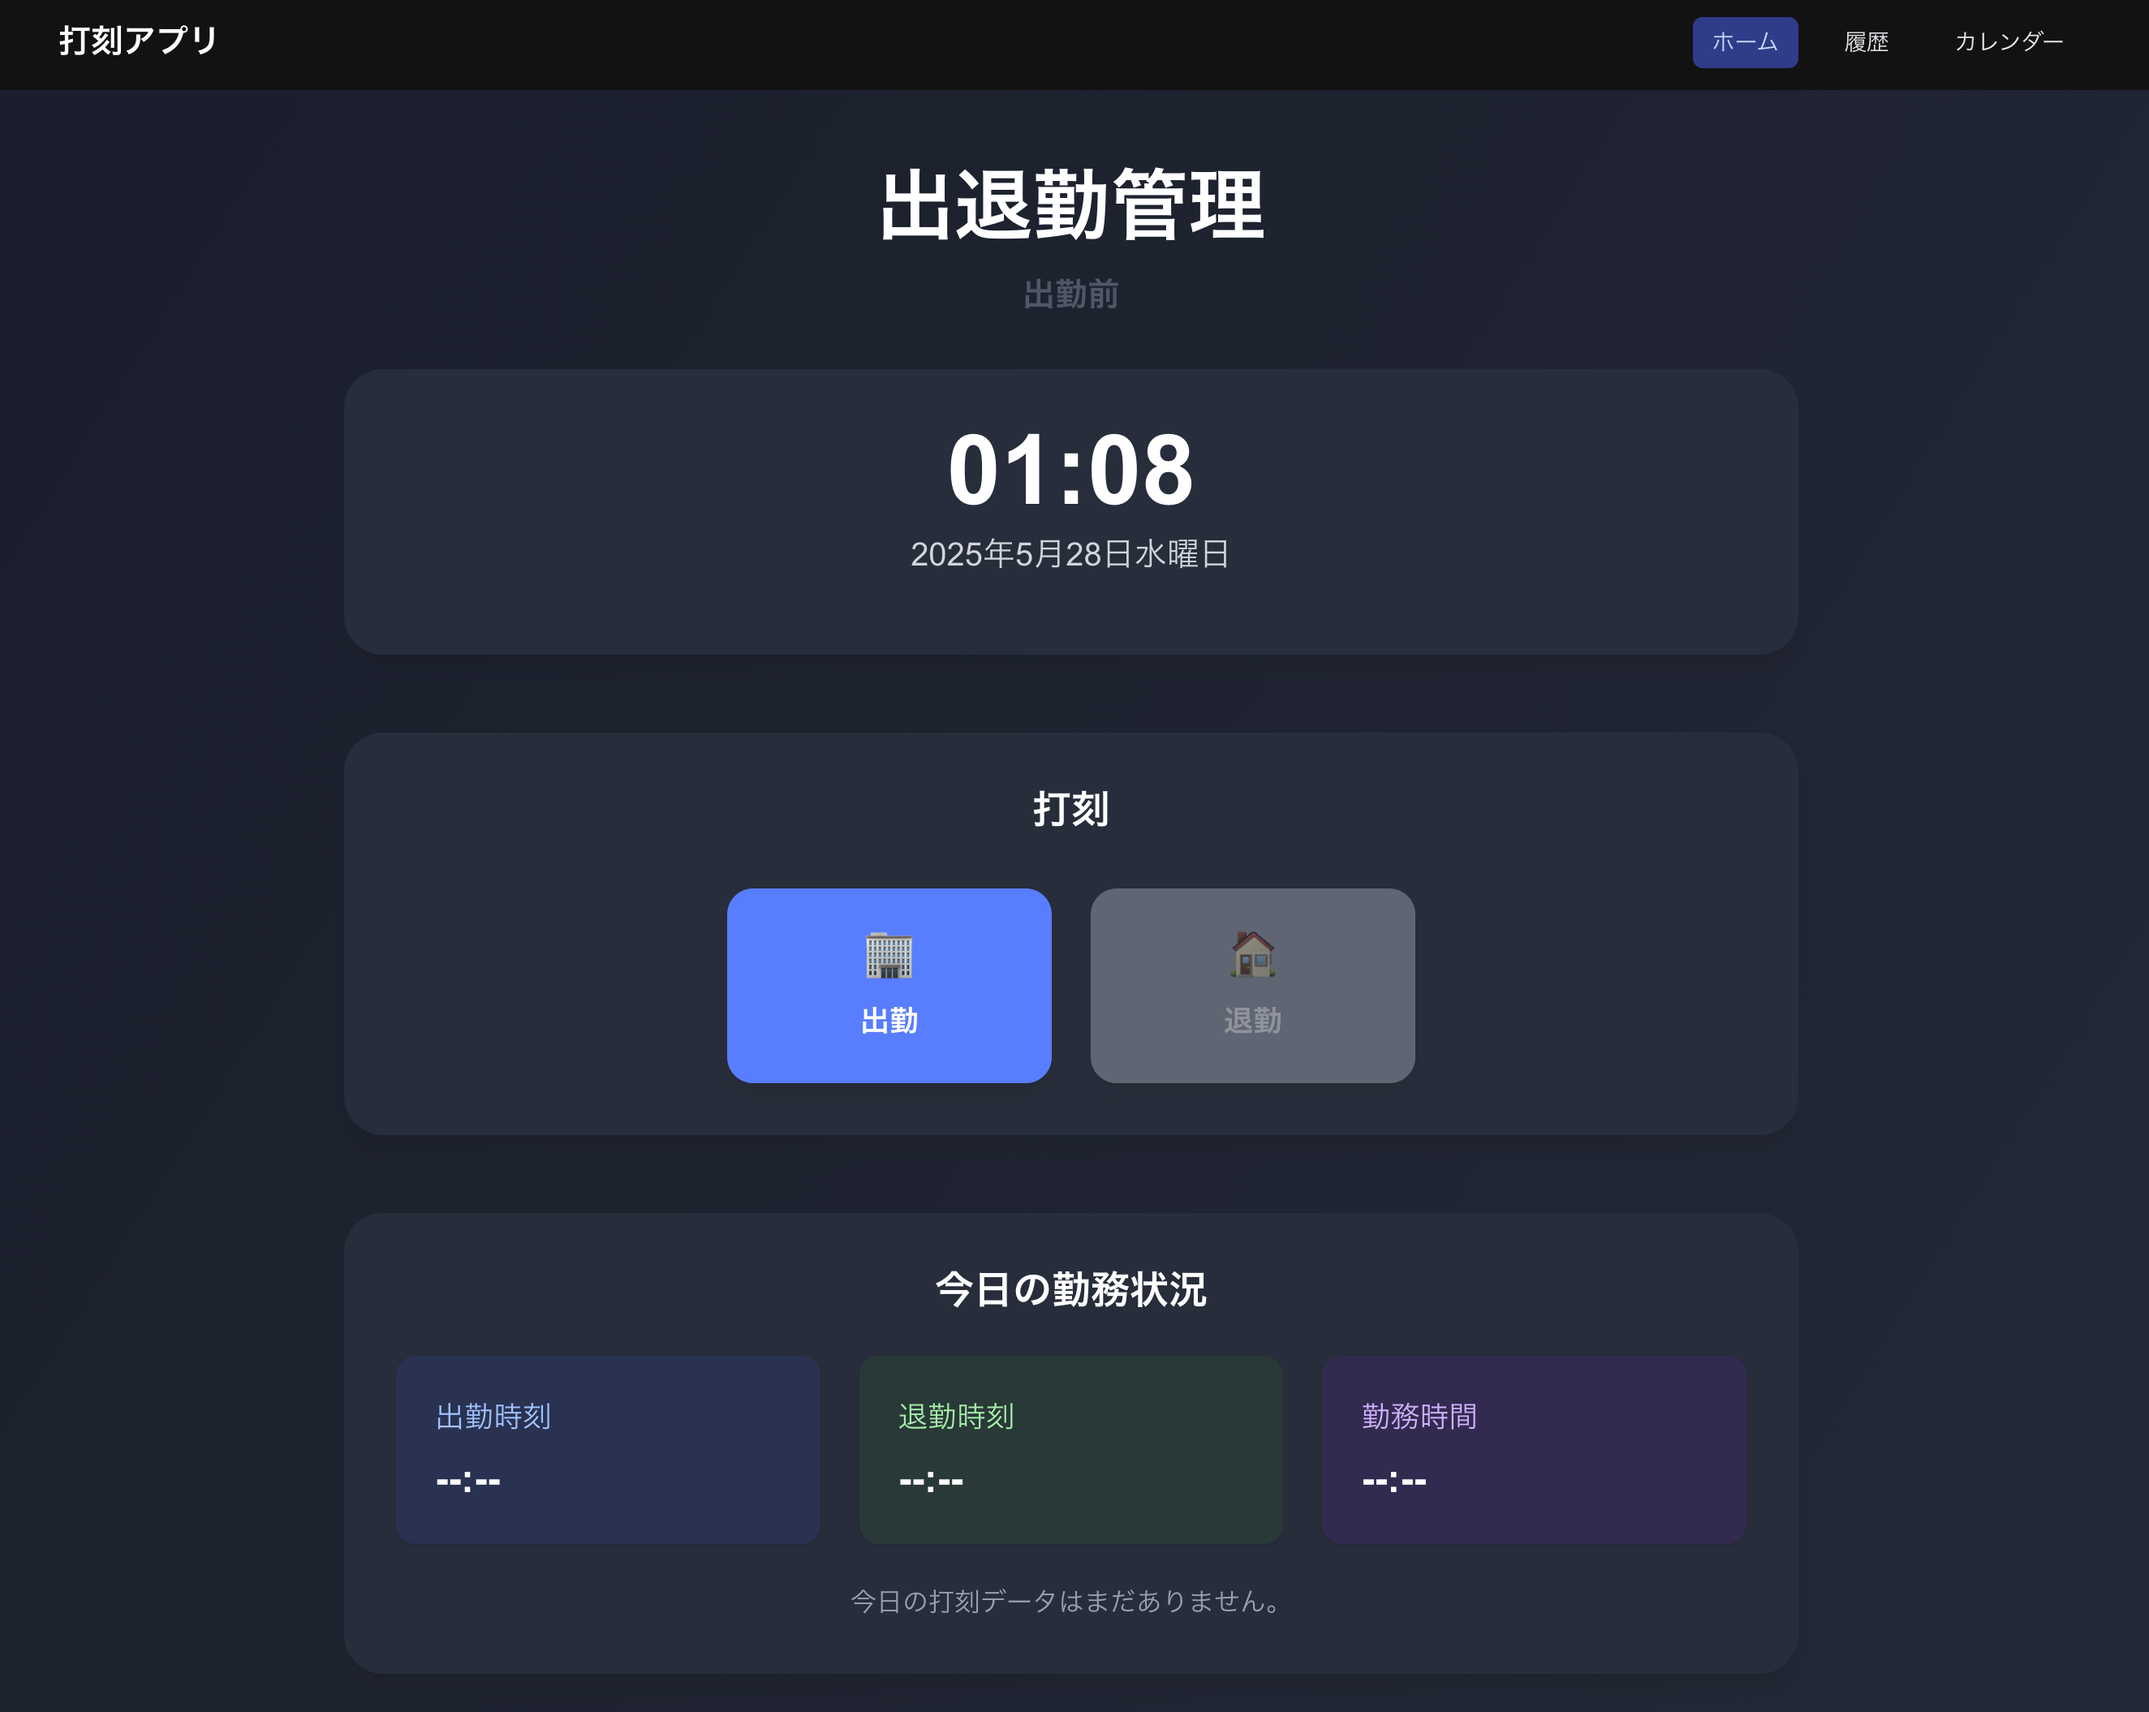
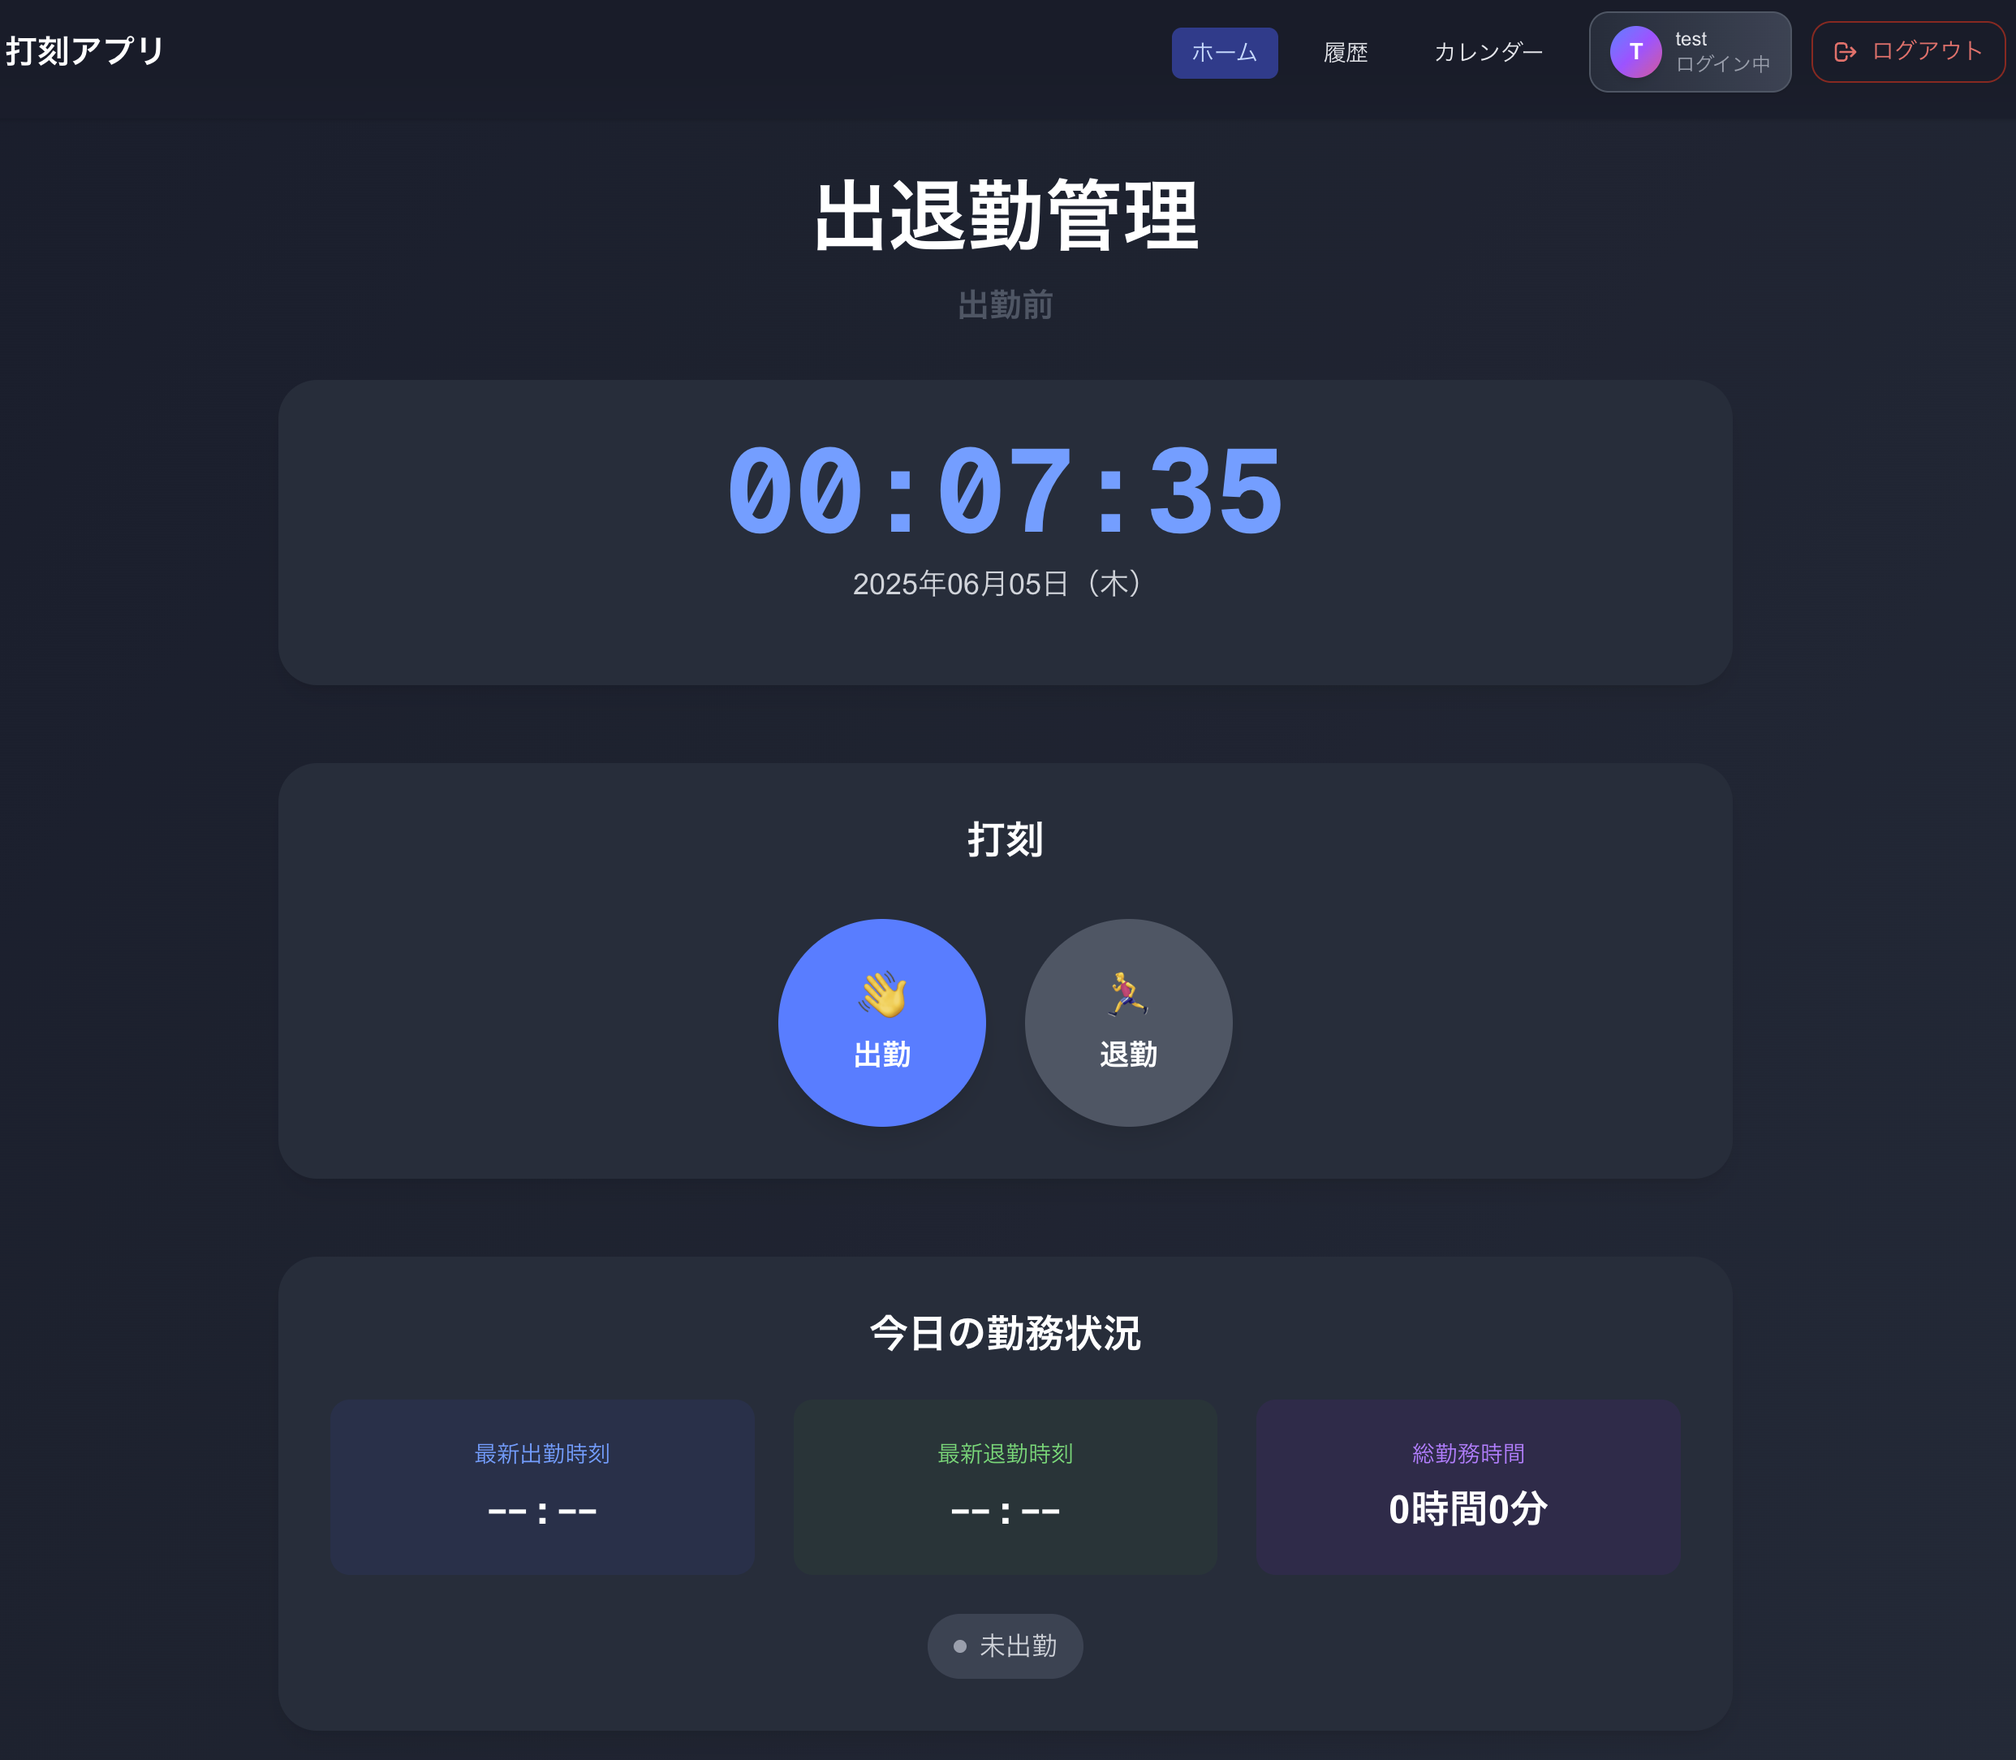
README修正

diff --git a/README.md b/README.md
@@ -1,21 +1,25 @@
 # 出退勤管理アプリ
 
-シンプルで使いやすい出退勤記録システムです。LocalStorageを利用してブラウザ上でデータを保存し、打刻記録の管理や勤務時間の自動計算、カレンダー表示などの機能を備えています。
-
-このアプリケーションはVibe Codingにより作成されました。
+シンプルで使いやすい出退勤記録システムです。PostgreSQLデータベースとNextAuth.jsによる認証機能を活用し、安全でスケーラブルな勤怠管理を実現します。打刻記録の管理、勤務時間の自動計算、カレンダー表示、ユーザー認証などの機能を備えています。
 
 ## 🚀 機能一覧
+
+### 認証機能
+- ✅ ユーザー登録・ログイン
+- ✅ セッション管理
+- ✅ セキュアな認証システム（NextAuth.js）
 
 ### 基本機能
 - ✅ 出勤・退勤の打刻
 - ✅ リアルタイムでの勤務状況表示
 - ✅ 勤務時間の自動計算
-- ✅ LocalStorageを使用したデータ保存
+- ✅ PostgreSQLデータベースでの永続的データ保存
 
 ### 履歴機能
 - ✅ 日付別打刻履歴の表示
 - ✅ 履歴のフィルタリング
 - ✅ 勤務時間の集計
+- ✅ ユーザー別データ管理
 
 ### カレンダー機能
 - ✅ 月間カレンダーでの出勤状況表示
@@ -28,14 +32,31 @@
 
 ## 🛠 技術スタック
 
-- [Next.js 15](https://nextjs.org/) - Reactフレームワーク
+### フロントエンド
+- [Next.js 15](https://nextjs.org/) - Reactフレームワーク（Turbopack対応）
 - [React 19](https://react.dev/) - UIライブラリ
 - [TypeScript](https://www.typescriptlang.org/) - 型安全な開発
-- [Tailwind CSS](https://tailwindcss.com/) - スタイリング
-- [LocalStorage API](https://developer.mozilla.org/ja/docs/Web/API/Window/localStorage) - データ保存
-- [Vibe Coding](https://code.visualstudio.com/blogs/2023/03/30/vscode-copilot) - 開発支援ツール
+- [Tailwind CSS](https://tailwindcss.com/) - モダンなCSSフレームワーク
 
-## 🚀 使い方
+### バックエンド
+- [NextAuth.js v5](https://next-auth.js.org/) - 認証システム
+- [Prisma](https://www.prisma.io/) - ORMとデータベース管理
+- [PostgreSQL](https://www.postgresql.org/) - リレーショナルデータベース
+- [bcryptjs](https://github.com/dcodeIO/bcrypt.js) - パスワードハッシュ化
+
+### 開発ツール
+- [Biome](https://biomejs.dev/) - 高速なリンター・フォーマッター
+- [Jest](https://jestjs.io/) - テストフレームワーク
+- [Testing Library](https://testing-library.com/) - React テストユーティリティ
+
+## 🚀 セットアップと起動
+
+### 前提条件
+- Node.js 18以降
+- PostgreSQLデータベース（または Supabase）
+- npm または yarn
+
+### インストール手順
 
 1. リポジトリをクローン
 ```bash
@@ -48,38 +69,103 @@ cd time-card-app
 npm install
 ```
 
-3. 開発サーバーを起動
+3. 環境変数を設定
+```bash
+# .env.localファイルを作成し、以下の変数を設定
+DATABASE_URL="postgresql://username:password@localhost:5432/timecard"
+NEXTAUTH_SECRET="your-nextauth-secret"
+NEXTAUTH_URL="http://localhost:3000"
+```
+
+4. データベースマイグレーションを実行
+```bash
+npm run db:migrate
+```
+
+5. 開発サーバーを起動
 ```bash
 npm run dev
 ```
 
-4. ブラウザで以下のURLにアクセス
+6. ブラウザで以下のURLにアクセス
 ```
 http://localhost:3000
 ```
 
+### データベース管理
+
+- マイグレーション: `npm run db:migrate`
+- Prisma Studio: `npm run db:studio`
+- スキーマ生成: `npm run db:generate`
+
 ## 📋 ページ構成
 
 - **ホーム (`/`)**: 打刻ボタンと今日の勤務状況
+- **ログイン (`/login`)**: ユーザーログインページ
+- **登録 (`/register`)**: 新規ユーザー登録ページ
 - **履歴 (`/history`)**: 日付別の打刻履歴
 - **カレンダー (`/calendar`)**: 月間カレンダーでの勤務状況一覧
+- **マイグレーション (`/migrate`)**: データベースマイグレーション管理
 
 ## 📊 今後の予定
 
 - [ ] 休憩時間の記録
-- [ ] データのエクスポート機能
-- [ ] 残業時間の計算
+- [ ] データのエクスポート機能（CSV/Excel）
+- [ ] 残業時間の計算と管理
 - [ ] 打刻データの修正・削除機能
+- [ ] 管理者機能（複数ユーザーの管理）
+- [ ] ダッシュボード機能（統計・グラフ表示）
+- [ ] モバイルアプリ対応（PWA）
+- [ ] 通知機能（打刻忘れアラート）
 
-## 👨💻 開発プロセス
+## 🧪 テスト
 
-このプロジェクトは[Vibe Coding](https://code.visualstudio.com/blogs/2023/03/30/vscode-copilot)を活用して開発されました。AIを活用したコーディング支援ツールによって、以下のような利点を得ることができました：
+```bash
+# 全テストを実行
+npm run test
 
-- 効率的なコード生成
-- デザインパターンの一貫性
-- バグの早期発見と修正
-- 開発時間の短縮
+# リンターチェック
+npm run check
+```
+
+## 🐳 Docker対応
+
+Docker Composeを使用した開発環境の構築も可能です：
+
+```bash
+docker-compose up -d
+```
+
+## 📁 プロジェクト構成
+
+```
+├── app/                 # Next.js App Router
+│   ├── api/            # API Routes
+│   ├── actions/        # Server Actions
+│   └── [pages]/        # ページコンポーネント
+├── components/         # Reactコンポーネント
+│   ├── client/         # クライアントコンポーネント
+│   └── server/         # サーバーコンポーネント
+├── lib/                # ユーティリティ関数
+├── prisma/             # データベーススキーマ・マイグレーション
+├── services/           # ビジネスロジック
+└── types/              # TypeScript型定義
+```
 
 ## 📝 ライセンス
 
-MIT
+MIT License
+
+## 👨💻 作者
+
+**tkr53**
+
+## 🤝 コントリビューション
+
+プルリクエストやイシューの報告を歓迎します。
+
+1. このリポジトリをフォーク
+2. feature ブランチを作成 (`git checkout -b feature/amazing-feature`)
+3. 変更をコミット (`git commit -m 'Add some amazing feature'`)
+4. ブランチにプッシュ (`git push origin feature/amazing-feature`)
+5. プルリクエストを作成
